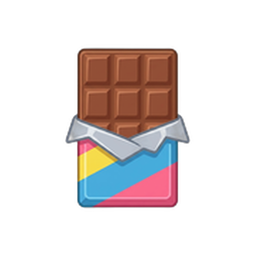
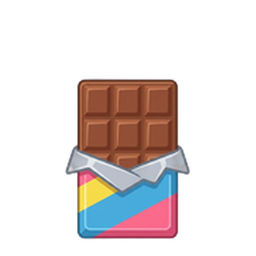
Align new items to shelf baseline

Changed region(s): [[0.25, 0.4375, 0.75, 0.9375], [0.2812, 0.1875, 0.7188, 0.375]]

diff --git a/docs/PROJECT_MAP.md b/docs/PROJECT_MAP.md
@@ -501,7 +501,8 @@ Change here when:
 Add a new item type:
 - Add the item image under `assets/items/`.
 - Use a transparent `256x256` canvas and keep the visible artwork within approximately `132x220`
-  pixels, centered on the canvas, so the shared shelf-item scale fits every slot consistently.
+  pixels. Center it horizontally and align the visible bottom edge near canvas Y=`240` so the shared
+  shelf-item scale fits every slot and every item rests on the same shelf baseline.
 - Add an entry to `configs/item_sprites.json`.
 - Schedule the item exactly once in `configs/item_progression.json`.
 - Rematerialize runtime levels if the item should affect an existing milestone.
